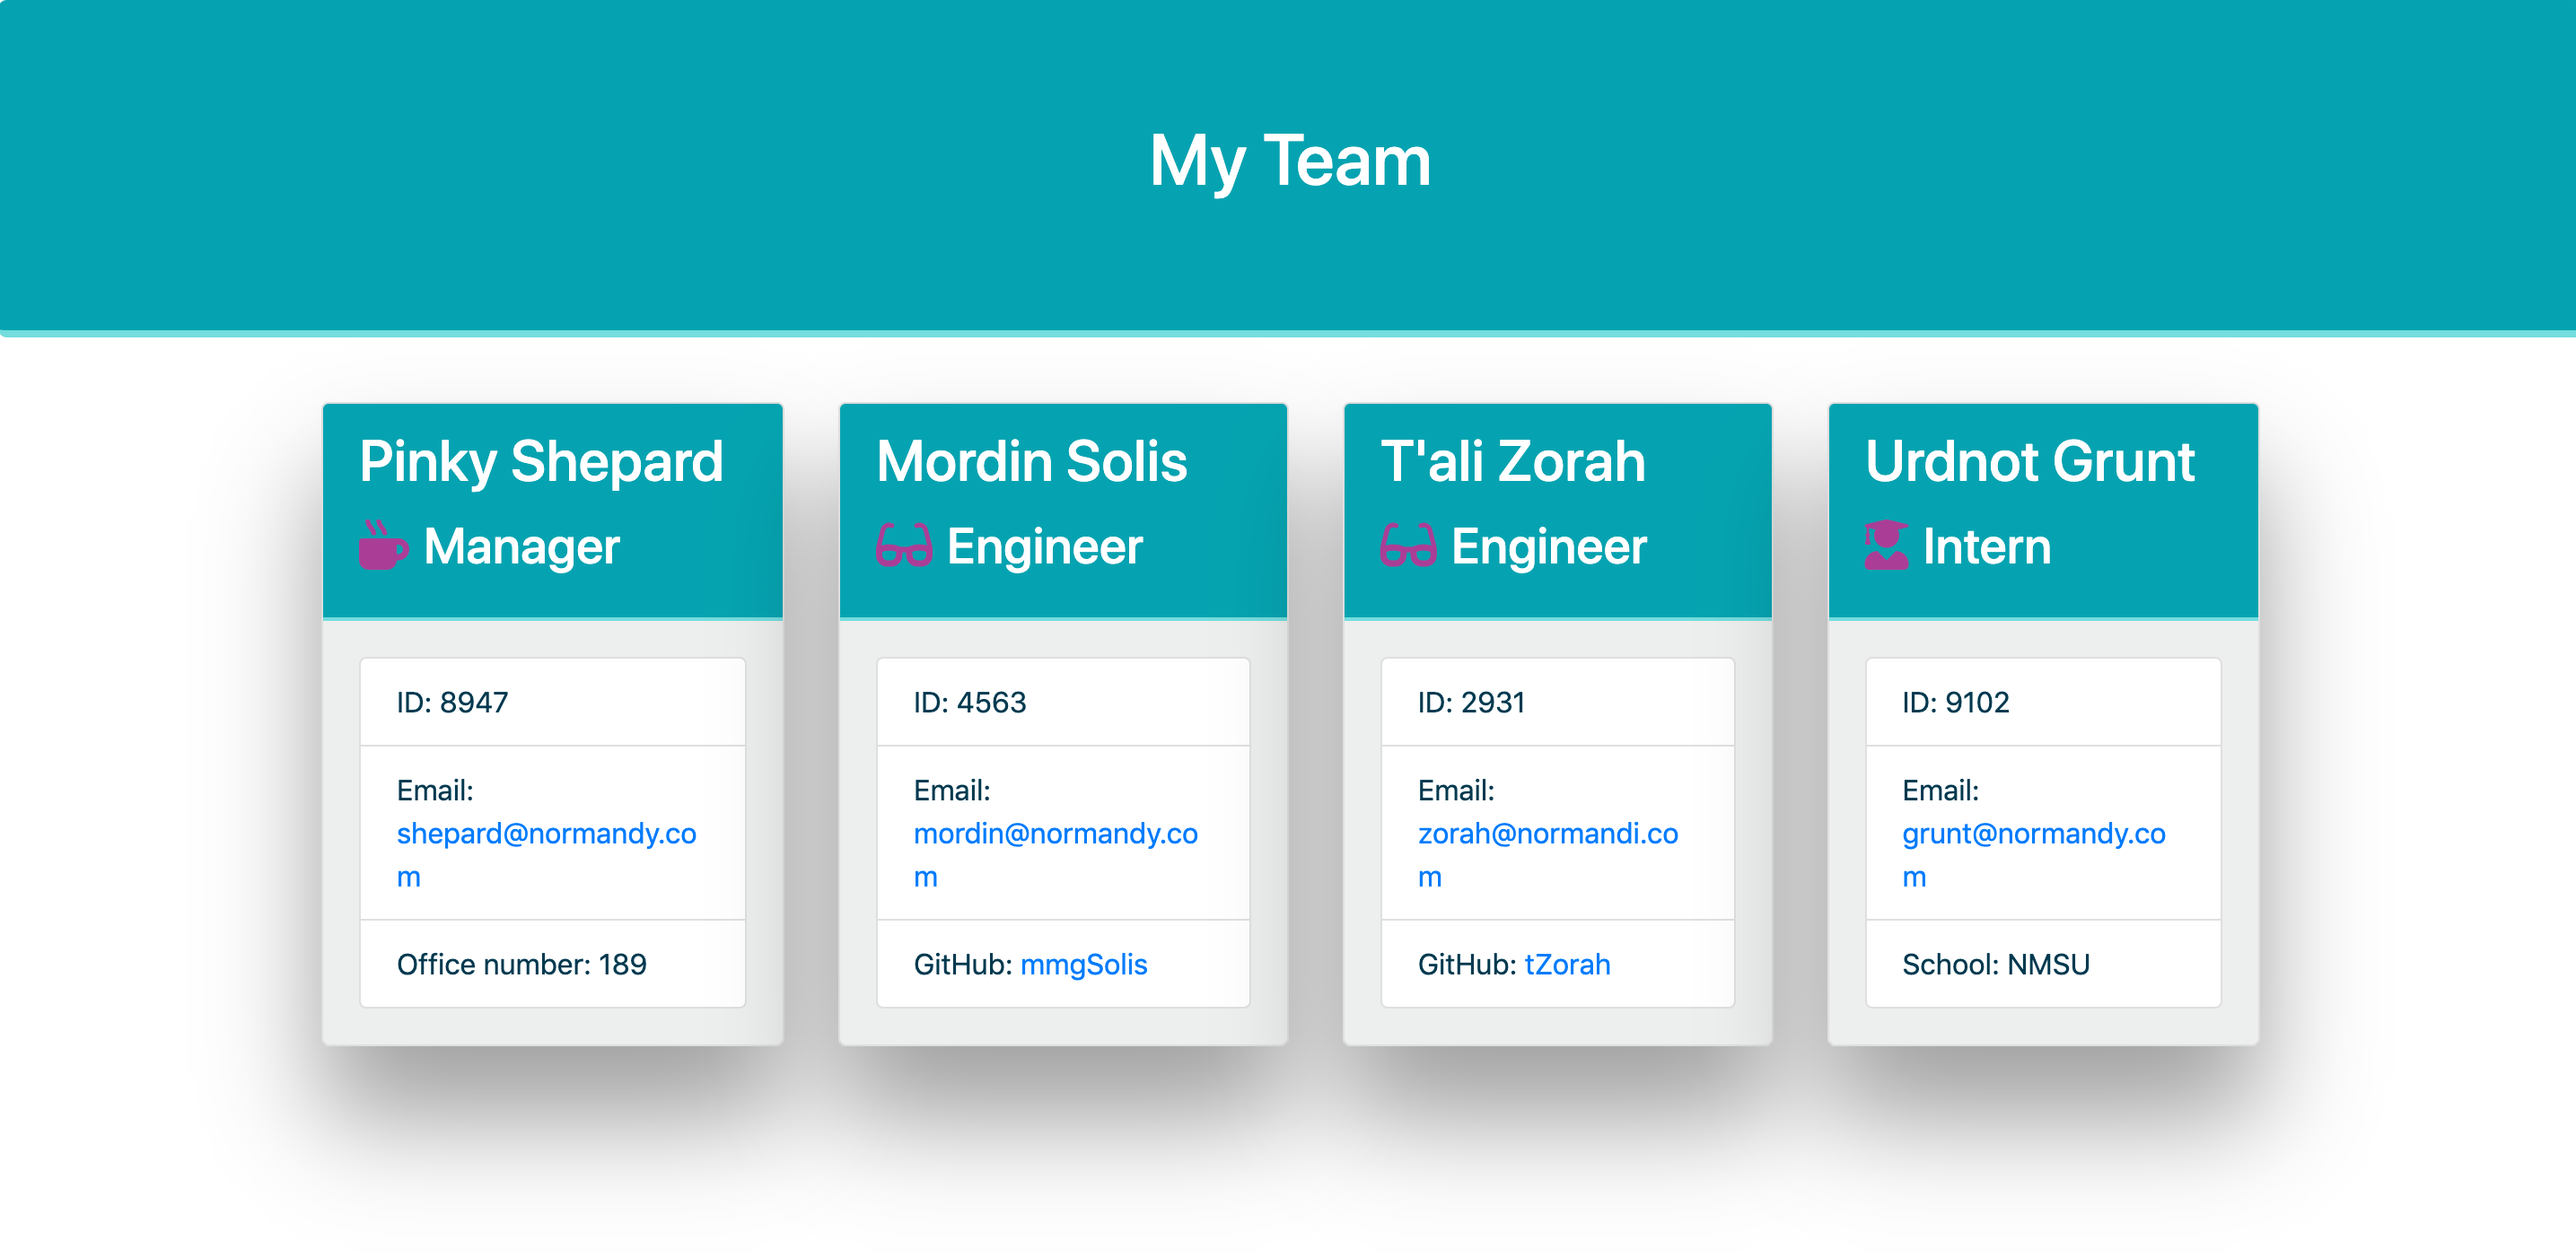
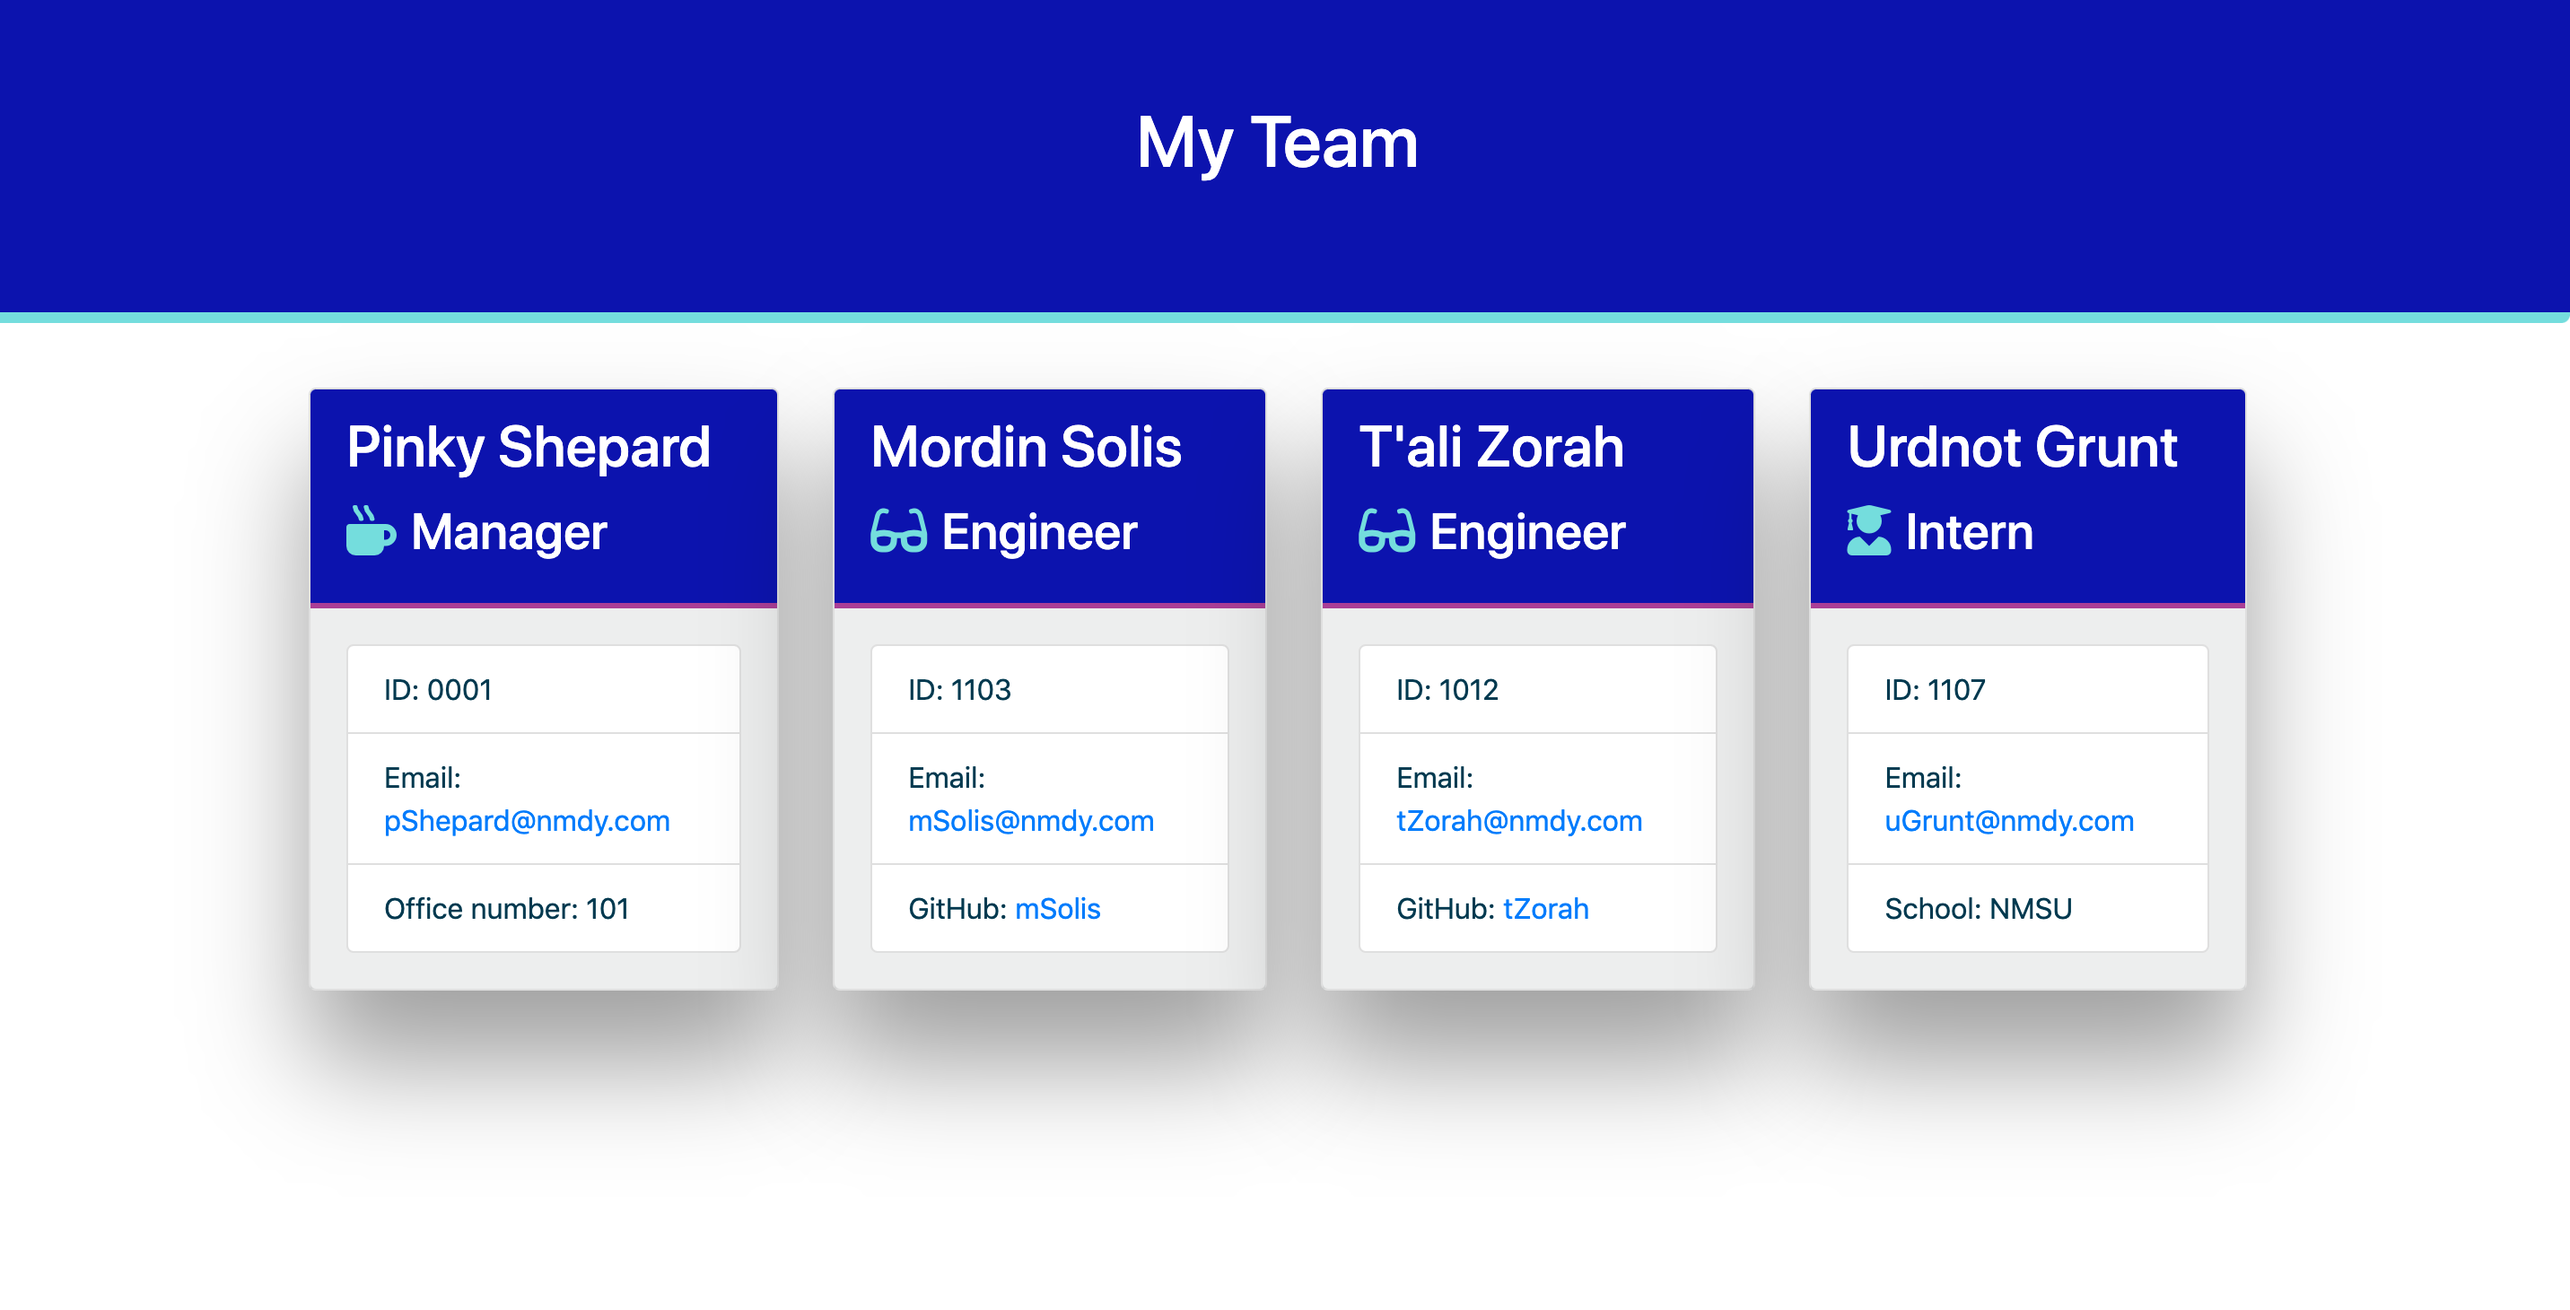
updated stylesheet & readme

diff --git a/output/style.css b/output/style.css
@@ -4,9 +4,11 @@ body {
 }
 /* Jumbotron */
 .team-heading {
-  background-color: #0fa3b1;
+  /* background-color: #0fa3b1; */
+  /* background-color: #75dddd; */
+  background-color: #0f12b1;
   color: #ffffff;
-  border-bottom: 4px solid #75dddd;
+  border-bottom: 6px solid #75dddd;
 }
 
 .team-area {
@@ -19,16 +21,17 @@ body {
   box-shadow: 0 40px 60px 0 rgba(15, 15, 15, 0.4);
 }
 .card-header {
-  background-color: #0fa3b1;
+  background-color: #0f12b1;
   color: #ffffff;
-  border-bottom: 2px solid #75dddd;
+  border-bottom: 3px solid #aa3e98;
 }
 
 .card-body {
   background-color: #babebe41;
 }
 .fas {
-  color: #aa3e98;
+  /* color: #aa3e98; */
+  color: #75dddd;
 }
 
 li {

diff --git a/README.md b/README.md
@@ -28,11 +28,11 @@ npm i
 
 ## Usage
 
-Type node app.js in commandline to begin. Next, answer the series of questions about your team members to generate profiles. You can add as many as you like. When you're finished, answer 'no' when asked if you want to add a new employee. Your team page will then generate and populate in the output folder.
+Type 'node app.js' in command line to begin. Next, answer the series of questions about your team members to generate profiles. You can add as many as you like. When you're finished, answer 'no' when asked if you want to add a new employee. Your team page will then generate and populate in the output folder.
 
 Screenshot of completed page:
 
-![myteam.html page](./assets/images/me2team.png)
+![myTeam.html page](./assets/images/myTeam.png)
 
 [Back to Table of Contents](#table-of-contents)
 
